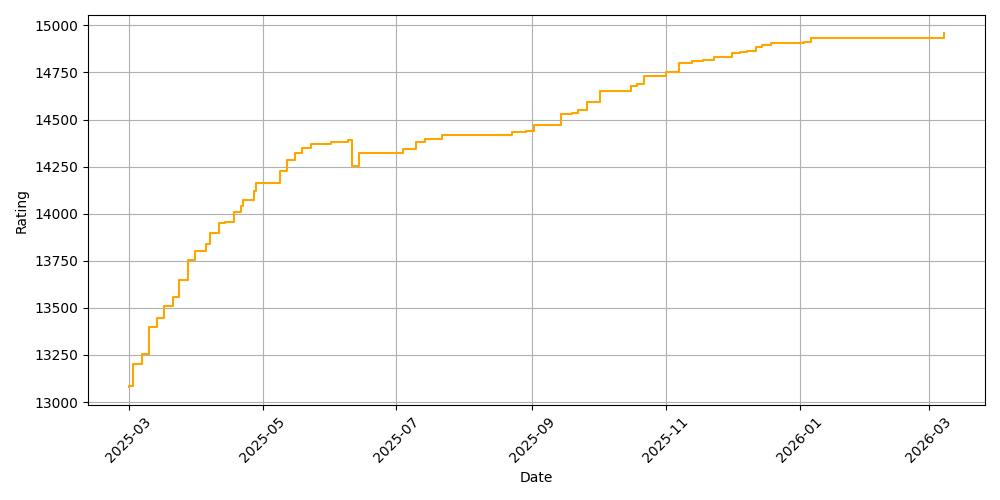
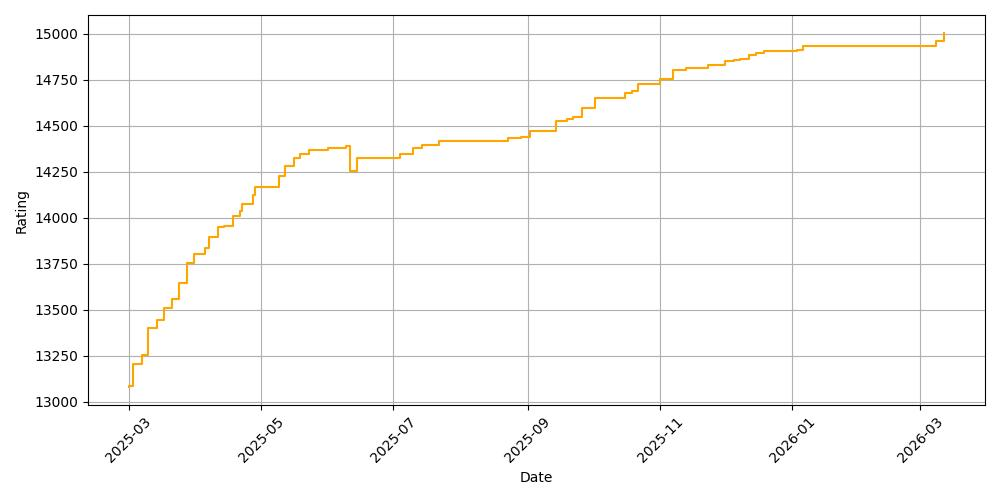
Being w5

diff --git a/content/post/mug/index.md b/content/post/mug/index.md
@@ -3,7 +3,7 @@ title: 关于音游
 description: Let's 音游趴体！能和我一起玩吗？
 slug: mug
 image: image.webp
-date: 2026-03-08
+date: 2026-03-12
 categories:
     - 音游
 ---
